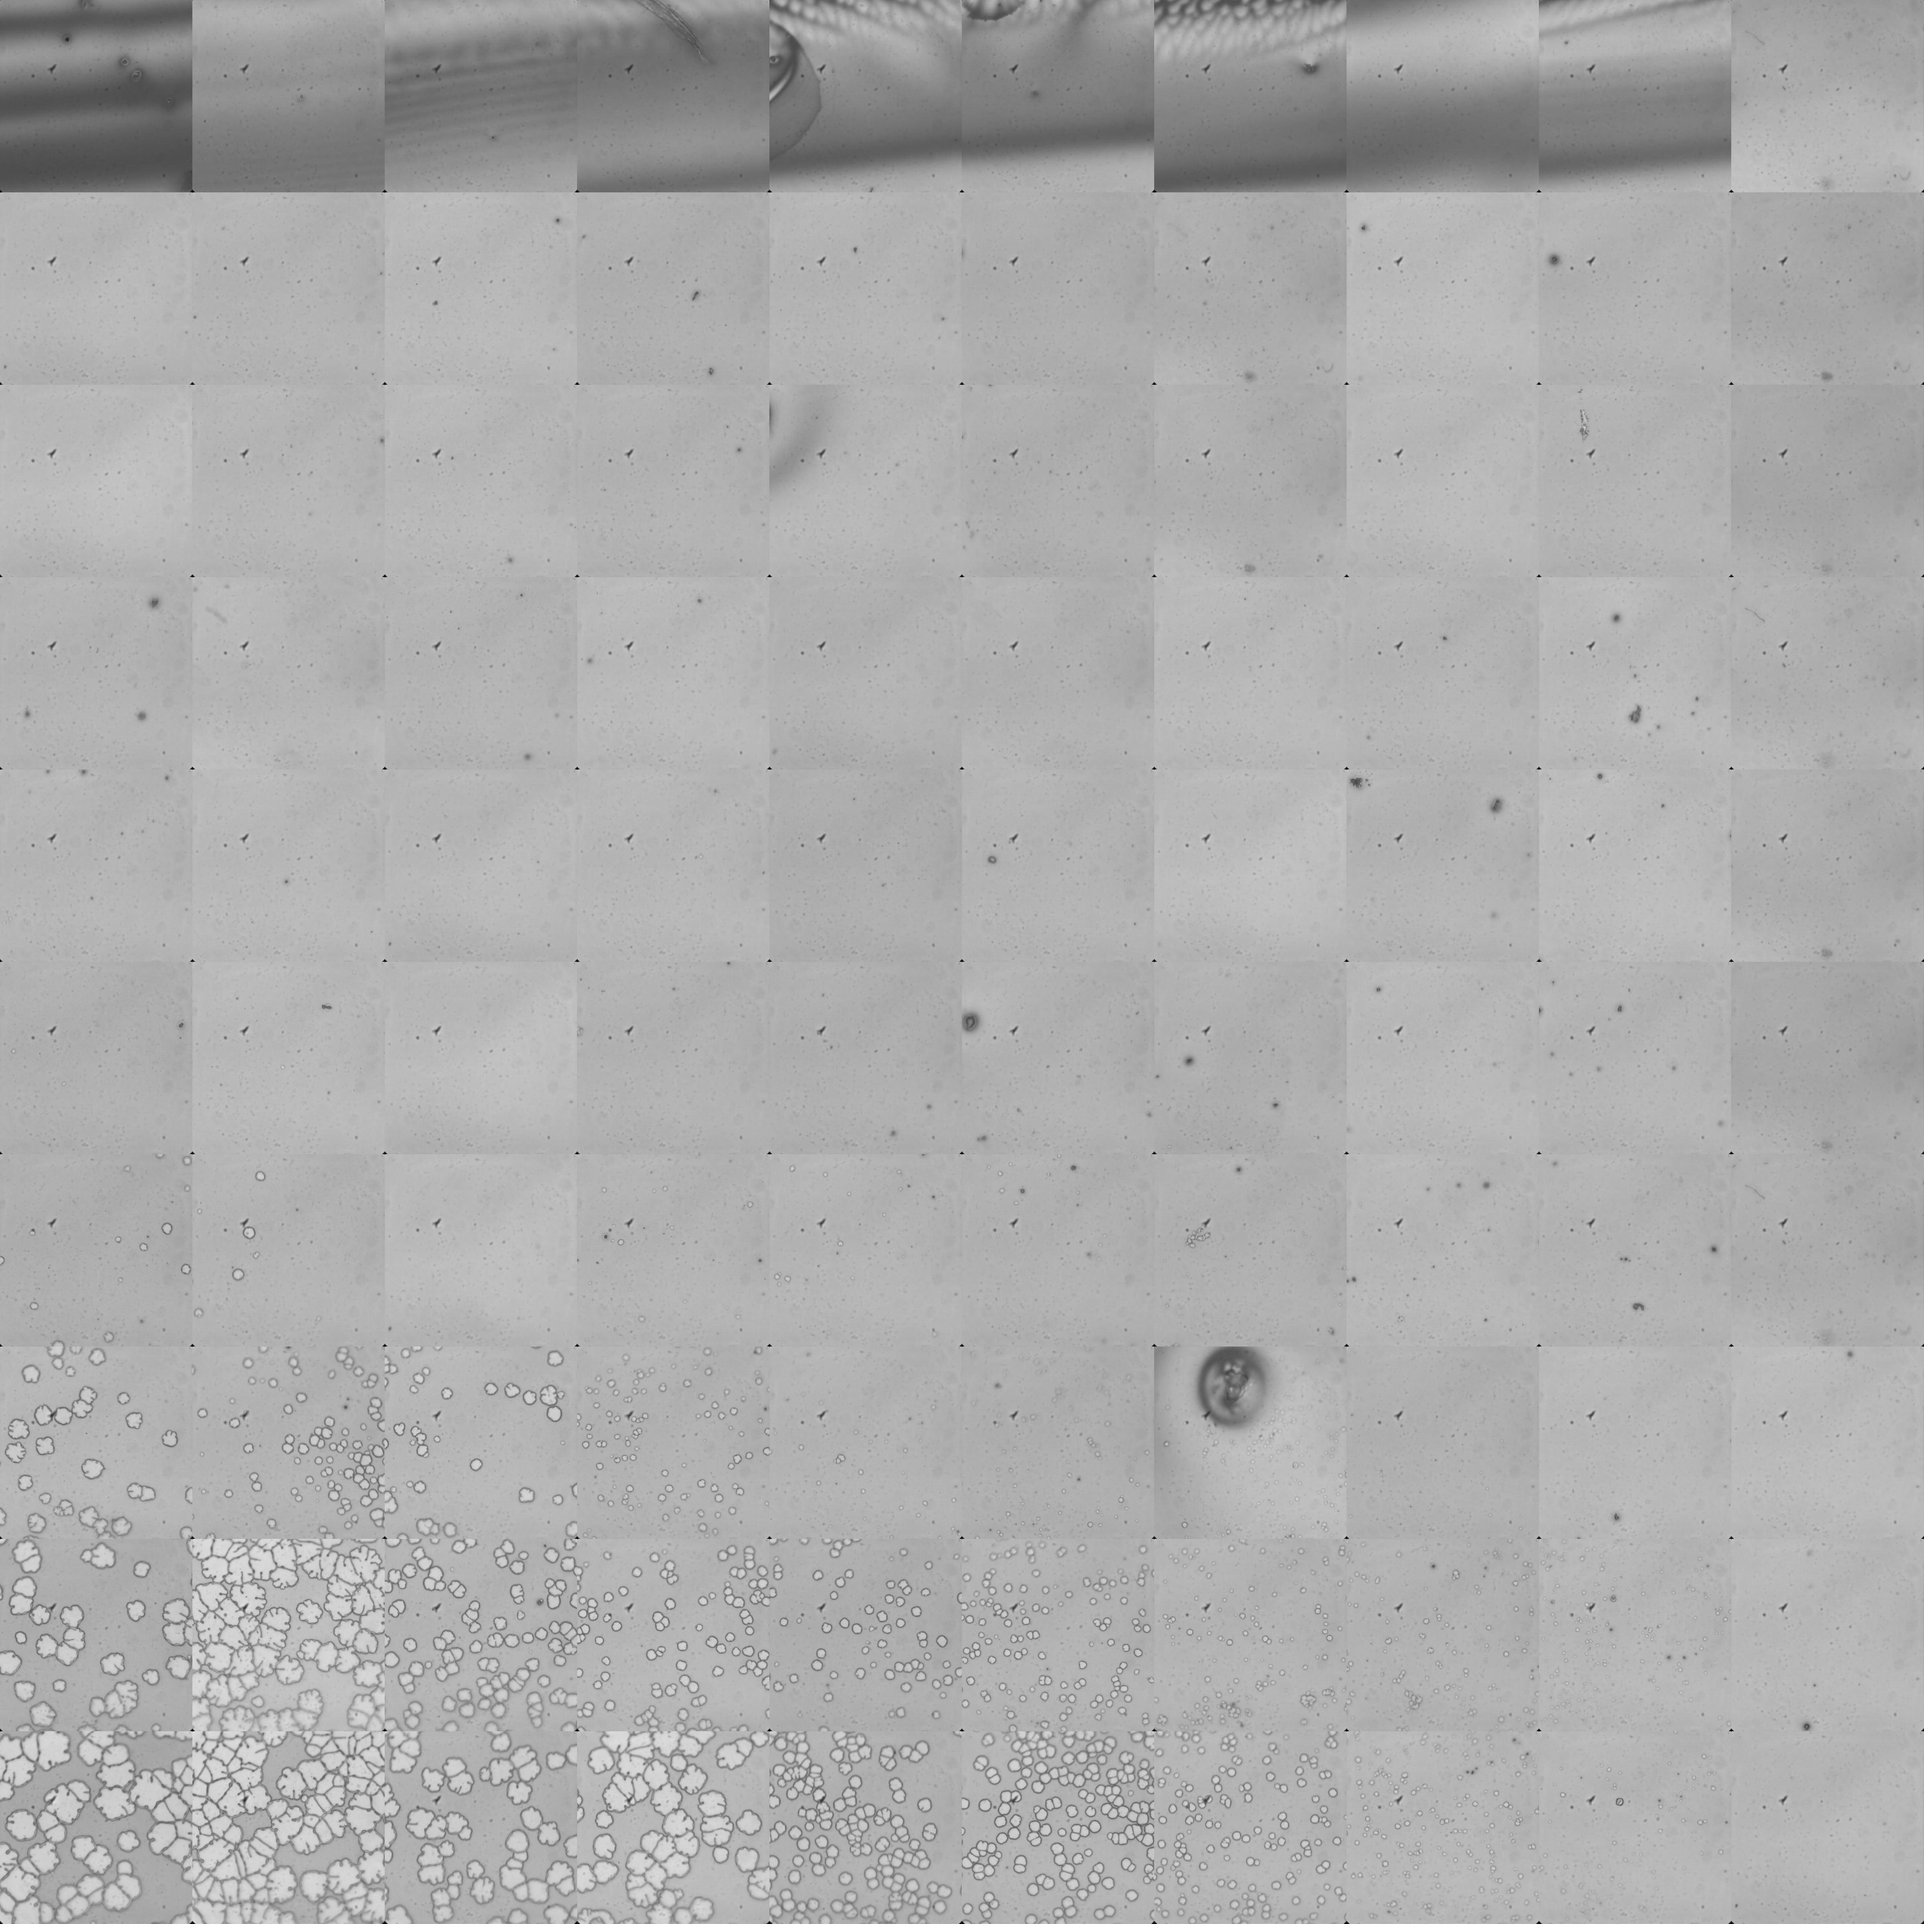
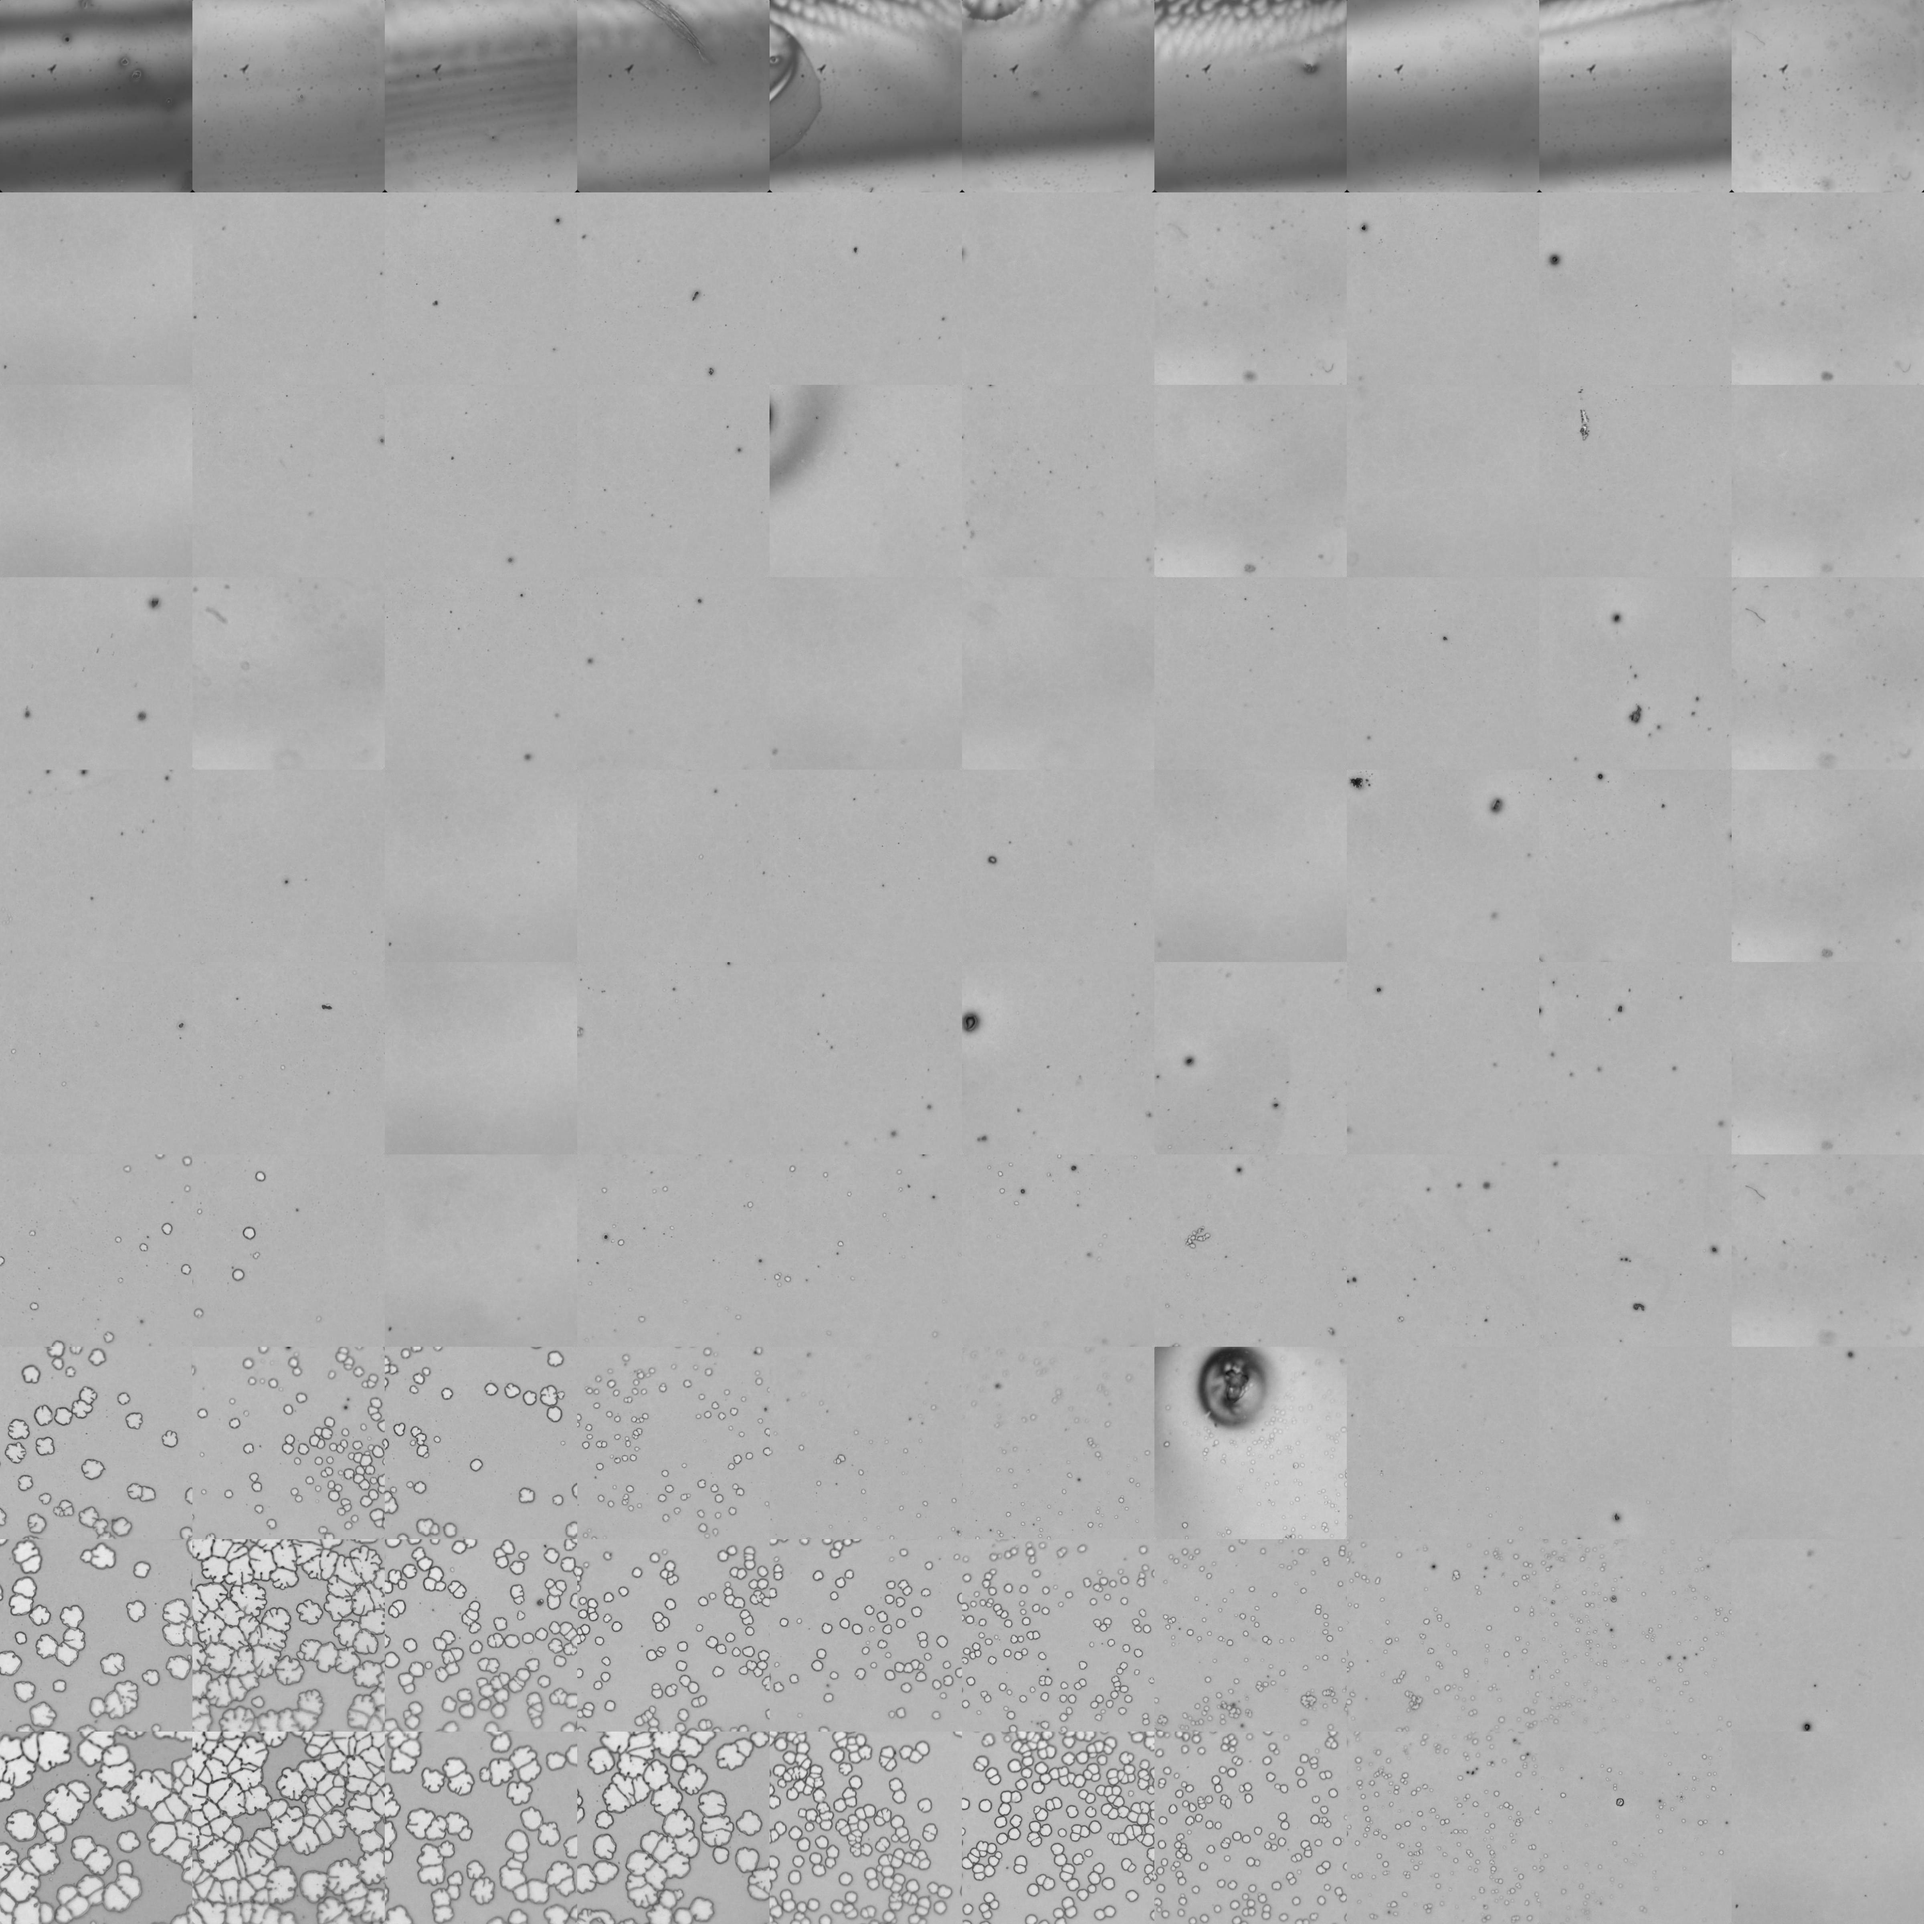
better artifact remover

diff --git a/Raymond/src/artifact_remover.m b/Raymond/src/artifact_remover.m
@@ -1,47 +1,30 @@
 
-image = imread('../16px_cornercrop_glance.jpg');
-pxlen = 512 - 32;
+function A = artifact_remover(images)
+% images must be a 3 dimensional array of grayscale images with
+% values between 0 and 1. 
+% indexes are (a, b, c)
+% a and b index row and column
+% c indexes the image
 
-im_hq = histeq(image);
-im_bin = imbinarize(im_hq, graythresh(im_hq)*0.5);
+% assert that images are square
+assert(size(images, 1) == size(images,2));
 
+% average images
+im_avg = mean(images, 3);
+avg_bright = mean(im_avg(:));
+A = zeros(size(images));
 
-im_avg = zeros(pxlen);
-for i = 0:9
-    for j = 0:9
-        xmin = j * pxlen + 1;
-        xmax = xmin + pxlen - 1;
-        ymin = i * pxlen + 1;
-        ymax = ymin + pxlen - 1;
-        
-        subim = double(image(ymin:ymax, xmin:xmax)) ./ 255.0;
-        
-        im_avg = im_avg + subim / 100;
-    end
+for i=1:size(images,3)
+    B = images(:,:,i);
+    B = B - im_avg;
+    B = B - min(B(:));
+    B = B - mean(B(:)) + mean(im_avg(:));
+    A(:,:,i) = B;
 end
 
-f = histeq(im_avg).*2;
-f = imgaussfilt(f, 9);
-f = 1 - f;
-f = f * 1.1;
-%imshow(f);
+mini = min(A(:));
+maxi = max(A(:));
 
+A = (A - mini) / (maxi - mini);
 
-image = double(image) / 255.0;
-
-for i = 0:9
-    for j = 0:9
-        xmin = j * pxlen + 1;
-        xmax = xmin + pxlen - 1;
-        ymin = i * pxlen + 1;
-        ymax = ymin + pxlen - 1;
-        
-        filt = image(ymin:ymax, xmin:xmax) .* f;
-        image(ymin:ymax, xmin:xmax) = image(ymin:ymax, xmin:xmax) + 0.09 * filt;
-        %image(ymin:ymax, xmin:xmax) = histeq(image(ymin:ymax, xmin:xmax));
-    end
 end
-
-imshow(image);
-%imwrite(image, '../16px_crop_shadow_triangle_removed.jpg')
-

diff --git a/Raymond/src/untile.m b/Raymond/src/untile.m
@@ -1,0 +1,32 @@
+
+function C = untile(image, height, width)
+%  UNTILE
+%  Given an image composed of tiled images, this function grabs subimages
+%  that are of dimensions of the given height and width row wise from the
+%  tiled image
+%
+%  example:
+%
+%   magic(4)
+%       16     2     3    13
+%        5    11    10     8
+%        9     7     6    12
+%        4    14    15     1
+% 
+%   untile(magic(4), 2, 2)
+%
+%   ans(:,:,1) =           ans(:,:,2) = 
+% 
+%       16     2               3    13
+%        5    11               10    8
+% 
+%   ans(:,:,3) =           ans(:,:,4) = 
+% 
+%        9     7                6    12
+%        4    14               15     1
+%
+    [r, c] = size(image);
+    C = reshape(image, height, r / height, c);
+    C = permute(C, [1,3,2]);
+    C = reshape(C, height, width, (r * c) / (height * width));
+end
